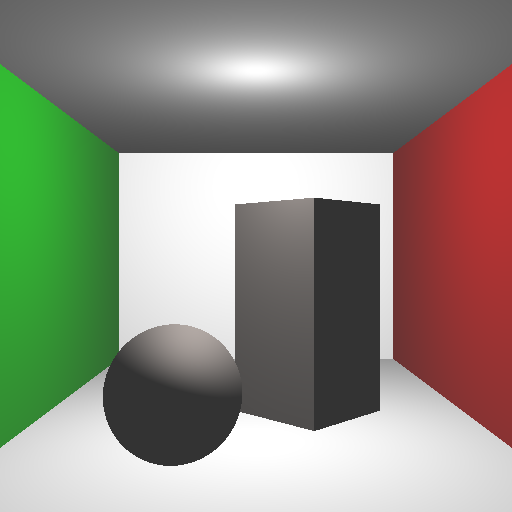
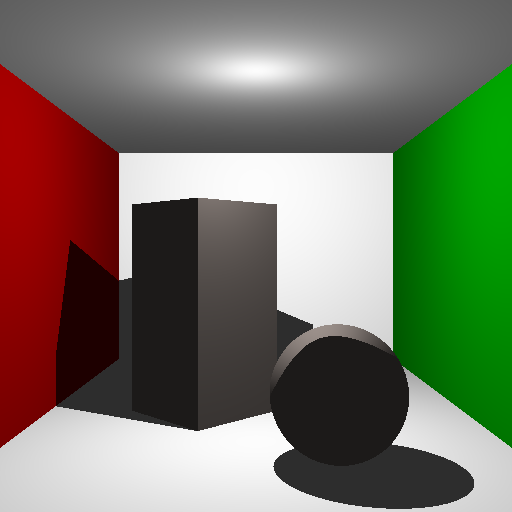
fixed bugs, added shading, AA

diff --git a/AssignmentsProject/src/comp557/a4/Scene.java b/AssignmentsProject/src/comp557/a4/Scene.java
@@ -4,6 +4,8 @@ import java.util.ArrayList;
 import java.util.HashMap;
 import java.util.List;
 import java.util.Map;
+import java.util.Random;
+
 import javax.vecmath.Color3f;
 import javax.vecmath.Color4f;
 import javax.vecmath.Point3d;
@@ -52,38 +54,52 @@ public class Scene {
         Ray ray = new Ray();
         IntersectResult result = new IntersectResult();
         ArrayList<Color4f> colours = new ArrayList<>();
+        Random rng = new Random();
+        int numSamples = ((render.samples < 1) ? 1 : render.samples);
+        
         
         for ( int i = 0; i < h && !render.isDone(); i++ ) {
             for ( int j = 0; j < w && !render.isDone(); j++ ) {
+            	for ( int k = 0; k < numSamples; k++) {
+            		// TODO make the supersampling grid, apply jittering
+            		// If we're using supersampling, apply the offset
+            		if (numSamples > 1) {
+            			offset[0] = rng.nextDouble() - 0.5;
+            			offset[1] = rng.nextDouble() - 0.5;
+            		}
+            		
+	                // Objective 1: generate a ray (use the generateRay method)
+	            	generateRay(j, i, offset, cam, ray);
+	            	
+	                // Objective 2: test for intersection with scene surfaces
+	            	result.clear();
+	            	for(Intersectable intersectable : surfaceList) {
+	            		intersectable.intersect(ray, result);
+	            	}
+	            	
+	                
+	            	// Get the color for the ray and update the render image
+	            	
+	            	// No intersection
+	            	if(result.t == Double.POSITIVE_INFINITY) {
+	            		Color4f bgColor = new Color4f(render.bgcolor.x, render.bgcolor.y, render.bgcolor.z, 1f);
+	            		colours.add(bgColor);
+	            	}
+	            	
+	            	// Intersection
+	            	else { 
+	                    colours.add(calculateColor(ray, result));
+	            	}
+	            }
             	
-                // Objective 1: generate a ray (use the generateRay method)
-            	generateRay(j, i, offset, cam, ray);
+            	if(colours.size() == 1)
+            		argb = convertColorToARGB(colours.get(0));
+            	else
+            		argb = convertColorToARGB(averageColours(colours));
             	
-                // Objective 2: test for intersection with scene surfaces
-            	// TODO make the surfaceList a scenenode so i don't need this
-            	result.clear();
-            	for(Intersectable intersectable : surfaceList) {
-            		intersectable.intersect(ray, result);
-            	}
-            	
-                
-            	// Get the color for the ray and update the render image
-            	
-            	// No intersection
-            	if(result.t == Double.POSITIVE_INFINITY) {
-            		Color4f bgColor = new Color4f(render.bgcolor.x, render.bgcolor.y, render.bgcolor.z, 1f);
-            		colours.add(bgColor);
-            	}
-            	
-            	// Intersection
-            	else { 
-                    colours.add(calculateColor(ray, result));
-            	}
-            	
-            	argb = convertColorToARGB(colours.get(0));
             	render.setPixel(j, i, argb);
             	colours.clear();
-            }
+	        }
         }
         
         // save the final render image
@@ -94,18 +110,50 @@ public class Scene {
         
     }
     
+    public Color4f averageColours (List<Color4f> colours) {
+    	Color4f avgColours = new Color4f();
+    	for( Color4f c : colours ) {
+    		avgColours.x += c.x;
+    		avgColours.y += c.y;
+    		avgColours.z += c.z;
+    		avgColours.w += c.w;
+    	}
+    	
+    	float numColours = colours.size();
+    	avgColours.x /= numColours;
+		avgColours.y /= numColours;
+		avgColours.z /= numColours;
+		avgColours.w /= numColours;
+    	
+    	return avgColours;
+    }
+    
     // Does the lighting computations
     public Color4f calculateColor(Ray ray, IntersectResult result) {
     	Material material = result.material;
     	Vector3d normalizedMaterialNormal = new Vector3d(result.n);
     	normalizedMaterialNormal.normalize();
         		
-    	// TODO Ambient lighting this is Ia where is Ka?
     	Color3f reflectedAmbient = new Color3f(ambient);
-    	
     	Color3f reflectedSpecular = new Color3f();
     	Color3f reflectedDiffuse = new Color3f();
+    	
+    	// Ambient lighting
+    	reflectedAmbient.x *= material.diffuse.x; 
+    	reflectedAmbient.y *= material.diffuse.y;
+    	reflectedAmbient.z *= material.diffuse.z;
+    	
+    	
+    	
+    	Ray shadowRay = new Ray();
+    	IntersectResult shadowResult = new IntersectResult();
     	for(Light light : lights.values()) {
+    		
+    		// Before proceding check to make sure light has an effect at all
+    		shadowResult.clear();
+    		if (inShadow(result, light, surfaceList, shadowResult, shadowRay))
+    			continue;
+    		
     		Vector3d lightVector = new Vector3d();
     		lightVector.sub(light.from, result.p);
     		lightVector.normalize();
@@ -166,11 +214,10 @@ public class Scene {
      * @param ray Contains the generated ray.
      */
 	public static void generateRay(final int i, final int j, final double[] offset, final Camera cam, Ray ray) {
-		// TODO there is either a bug in this or in the camera code. Something is making the y inverted
 		// Objective 1: finish this method.  
 		// Formula from slides that map coordinates of image to pixel
-		double u = cam.l + ( cam.r-cam.l ) * ( ( i + 0.5 + offset[0] ) / cam.imageSize.width );
-		double v = cam.b + ( cam.t-cam.b ) * ( ( j + 0.5 + offset[1] ) / cam.imageSize.height );
+		double u = cam.l + ( cam.r-cam.l ) * ( ( i + 0.5) / cam.imageSize.width );
+		double v = (cam.b + ( cam.t-cam.b ) * ( ( j + 0.5 + offset[1] ) / cam.imageSize.height ));
 		
 		Vector3d vFrame = new Vector3d(cam.v);
 		vFrame.scale(v);
@@ -207,10 +254,28 @@ public class Scene {
 	 * 
 	 * @return True if a point is in shadow, false otherwise. 
 	 */
-	public static boolean inShadow(final IntersectResult result, final Light light, final SceneNode root, IntersectResult shadowResult, Ray shadowRay) {
+	public static boolean inShadow(final IntersectResult result, final Light light, final List<Intersectable> surfaces, IntersectResult shadowResult, Ray shadowRay) {
+		// Objective 5: finish this method and use it in your lighting computation
 		
-		// TODO: Objective 5: finish this method and use it in your lighting computation
+		// Cast a ray from the point of intersection to the light and see if it hits anything
+		result.n.normalize();
+		Vector3d tinyNormal = new Vector3d(result.n);
+		tinyNormal.scale(0.001);
 		
-		return false;
+		// Move the start by a tiny bit along the normal so it doesn't self shadow
+		shadowRay.eyePoint = new Point3d(result.p);
+		shadowRay.eyePoint.add(tinyNormal);
+		
+		Vector3d shadowDirection = new Vector3d();
+		shadowDirection.sub(light.from, shadowRay.eyePoint);
+		shadowRay.viewDirection = shadowDirection;
+		
+		for(Intersectable surface : surfaces) {
+			surface.intersect(shadowRay, shadowResult);
+		}
+		
+		// t = 1 means we hit something between the collision point between
+		// the light from and the eye point exclusively
+		return shadowResult.t > 0.0 && shadowResult.t < 1.0;
 	}    
 }

diff --git a/AssignmentsProject/src/comp557/a4/Mesh.java b/AssignmentsProject/src/comp557/a4/Mesh.java
@@ -3,6 +3,9 @@ package comp557.a4;
 import java.util.HashMap;
 import java.util.Map;
 
+import javax.vecmath.Point3d;
+import javax.vecmath.Vector3d;
+
 public class Mesh extends Intersectable {
 	
 	/** Static map storing all meshes by name */
@@ -25,7 +28,64 @@ public class Mesh extends Intersectable {
 	public void intersect(Ray ray, IntersectResult result) {
 		
 		// TODO: Objective 7: Bonus: finish this class as a bonus objective
+		// Based on https://en.wikipedia.org/wiki/M%C3%B6ller%E2%80%93Trumbore_intersection_algorithm
+		double t = Double.NEGATIVE_INFINITY;
+		Vector3d n;
 		
+		for(int[] face : soup.faceList) {
+			Point3d vertex1 = soup.vertexList.get(face[0]).p;
+			Point3d vertex2 = soup.vertexList.get(face[1]).p;
+			Point3d vertex3 = soup.vertexList.get(face[2]).p;
+			
+			// TODO am i subbing the right way?
+			Vector3d edge1 = new Vector3d(
+										vertex1.x - vertex2.x,
+										vertex1.y - vertex2.y,
+										vertex1.z - vertex2.z 
+									);
+			Vector3d edge2 = new Vector3d(
+										vertex1.x - vertex3.x,
+										vertex1.y - vertex3.y,
+										vertex1.z - vertex3.z 
+									);
+			
+			Vector3d p = new Vector3d();
+			p.cross(ray.viewDirection, edge2);
+			
+			double determinant = edge1.dot(p);
+			
+			// Don't care if it's the back face
+			if(determinant > -EPSILON && determinant < EPSILON) 
+				continue;
+			double invDeterminant = 1.0/determinant;
+			Vector3d asdf = new Vector3d();
+			asdf.sub(ray.eyePoint, vertex1);
+			
+			double u = asdf.dot(p) * invDeterminant;
+			
+			// The intersection lies outside of the triangle
+			if(u < 0.f || u > 1.f) 
+				continue;
+			Vector3d q = new Vector3d();
+			q.cross(asdf, edge1);
+			double v = ray.viewDirection.dot(q) * invDeterminant;
+			
+			//The intersection lies outside of the triangle
+			if(v < 0.f || u + v  > 1.f) return;
+			
+			double potentialT = edge2.dot(q) * invDeterminant;
+			if (potentialT > EPSILON && potentialT < t) {
+				t = potentialT;
+			}
+		}
+		
+		if (t != Double.NEGATIVE_INFINITY ) {
+			result.t = t;
+			result.p = new Point3d();
+			ray.getPoint(t, result.p);
+			result.material = material;
+			result.n = new Vector3d();
+		}
 	}
 
 }

diff --git a/AssignmentsProject/src/comp557/a4/Sphere.java b/AssignmentsProject/src/comp557/a4/Sphere.java
@@ -43,14 +43,16 @@ public class Sphere extends Intersectable {
     	double a = ray.viewDirection.dot(ray.viewDirection);
     	double b = ray.viewDirection.dot(eyeVector);
     	double c = eyeVector.dot(eyeVector) - Math.pow(radius, 2);
-    	double discriminant = Math.pow(b,2) - a * c; // Formula from textbook page 77
+    	double ac = a*c;
+    	double discriminant = Math.pow(2*b,2) - 4*ac;
     	
     	//Positive therefore two intersections
     	Double t = null;
     	if (discriminant > 0)
     	{
-    		double t1 = ( -b - discriminant ) / a;
-    		double t2 = ( -b + discriminant ) / a;
+    		double delta = Math.sqrt(Math.pow(b, 2) - ac); 
+    		double t1 = (-b + delta) / a;
+    		double t2 = ( -b - delta ) / a;
     		if ( t1 > 0 && t2 > 0 )
     		{
     			t = Math.min(t1, t2);
@@ -68,7 +70,6 @@ public class Sphere extends Intersectable {
     	
     	if(t != null && t > 0 && t < result.t)
     	{
-
     		result.t = t;
     		result.p = new Point3d();
     		ray.getPoint(result.t, result.p);

diff --git a/AssignmentsProject/src/comp557/a4/Camera.java b/AssignmentsProject/src/comp557/a4/Camera.java
@@ -44,10 +44,7 @@ public class Camera {
     	// do nothing
     }
     
-    // Initializes the axes of the camera
     public void initialize(){
-		// TODO something is wrong in this or ray casting. Everything is upside down and boxes are skewed
-    	// Can we actually take up for granted?
     	double aspectRatio = (double) imageSize.width / imageSize.height;
 		double fovyRad = Math.toRadians(fovy);
 	
@@ -57,19 +54,17 @@ public class Camera {
 		t = Math.tan(fovyRad/2.0);
 		b = -t;
 		
-		// Find our 3 axes
-		// Cam is looking up, normalized
-		v = (Vector3d) up.clone();
-		v.normalize();
-		
-		// w is the direction we're looking away from, normalized
 		w = new Vector3d();
-		w.sub(from, to);
+		w.sub(to, from);
+		w.negate();
 		w.normalize();
 		
-		// u is our third axis which is the cross between v and w
 		u = new Vector3d();
-		u.cross(v, w);
+		u.cross(up, w);
+		u.normalize();
+		
+		v = new Vector3d();
+		v.cross(u, w);
     }
 }
 

diff --git a/AssignmentsProject/src/comp557/a4/Box.java b/AssignmentsProject/src/comp557/a4/Box.java
@@ -22,7 +22,6 @@ public class Box extends Intersectable {
 
 	@Override
 	public void intersect(Ray ray, IntersectResult result) {
-		// TODO: Objective 6: Finish this class
 		// Based on the algorithm provided by 
 		// http://www.cs.utah.edu/~awilliam/box/box.pdf
 		double tmin, tmax, txmin, txmax, tymin, tymax, tzmin, tzmax;
@@ -73,8 +72,6 @@ public class Box extends Intersectable {
 		// If we have a valid intersection compute the normal and update the result
 		double t = Math.max(tmin, tzmin);
 		if(t > 0 && t < result.t) {
-			// TODO Check the math on this, there might be a bug
-			
 			// Start by computing the normal
 			// This is done by figuring out which slab we're on
 			// and setting one of the x,y,z values to 1 or -1 

diff --git a/AssignmentsProject/src/comp557/a4/Parser.java b/AssignmentsProject/src/comp557/a4/Parser.java
@@ -311,6 +311,12 @@ public class Parser {
             render.samples = s.nextInt(); 
 			s.close();
 		}
+		Node jitter = dataNode.getAttributes().getNamedItem("jitter");
+		if ( jitter != null) {
+			Scanner s = new Scanner( jitter.getNodeValue());
+            render.useJittering = s.nextBoolean(); 
+			s.close();
+		}
     	NodeList nodeList = dataNode.getChildNodes();
     	for (int i = 0; i < nodeList.getLength(); i++) {
     		Node n = nodeList.item(i);

diff --git a/AssignmentsProject/src/comp557/a4/Render.java b/AssignmentsProject/src/comp557/a4/Render.java
@@ -59,6 +59,9 @@ public class Render extends WindowAdapter {
     /** Flag to indicate when rendering should stop */
     private boolean done;
     
+    /** Flag used to indicate jittering **/
+    public boolean useJittering;
+    
     /**
      * Default constructor. Creates a default camera and black background color.
      * @param dataNode
